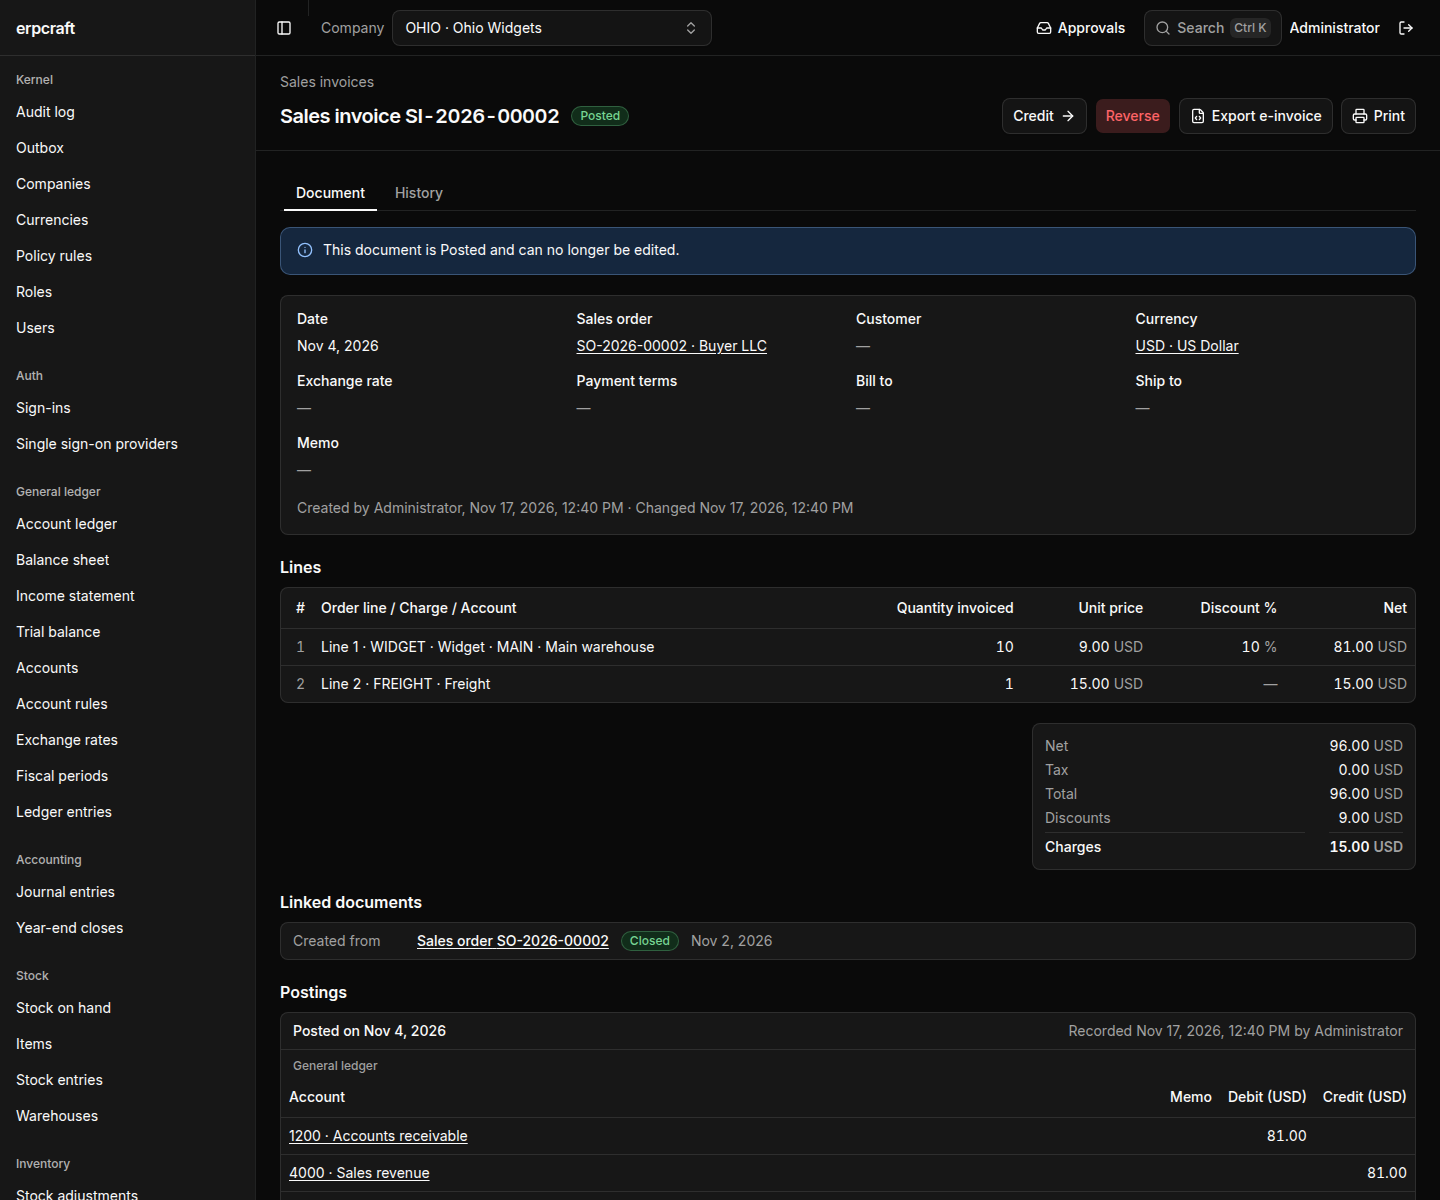
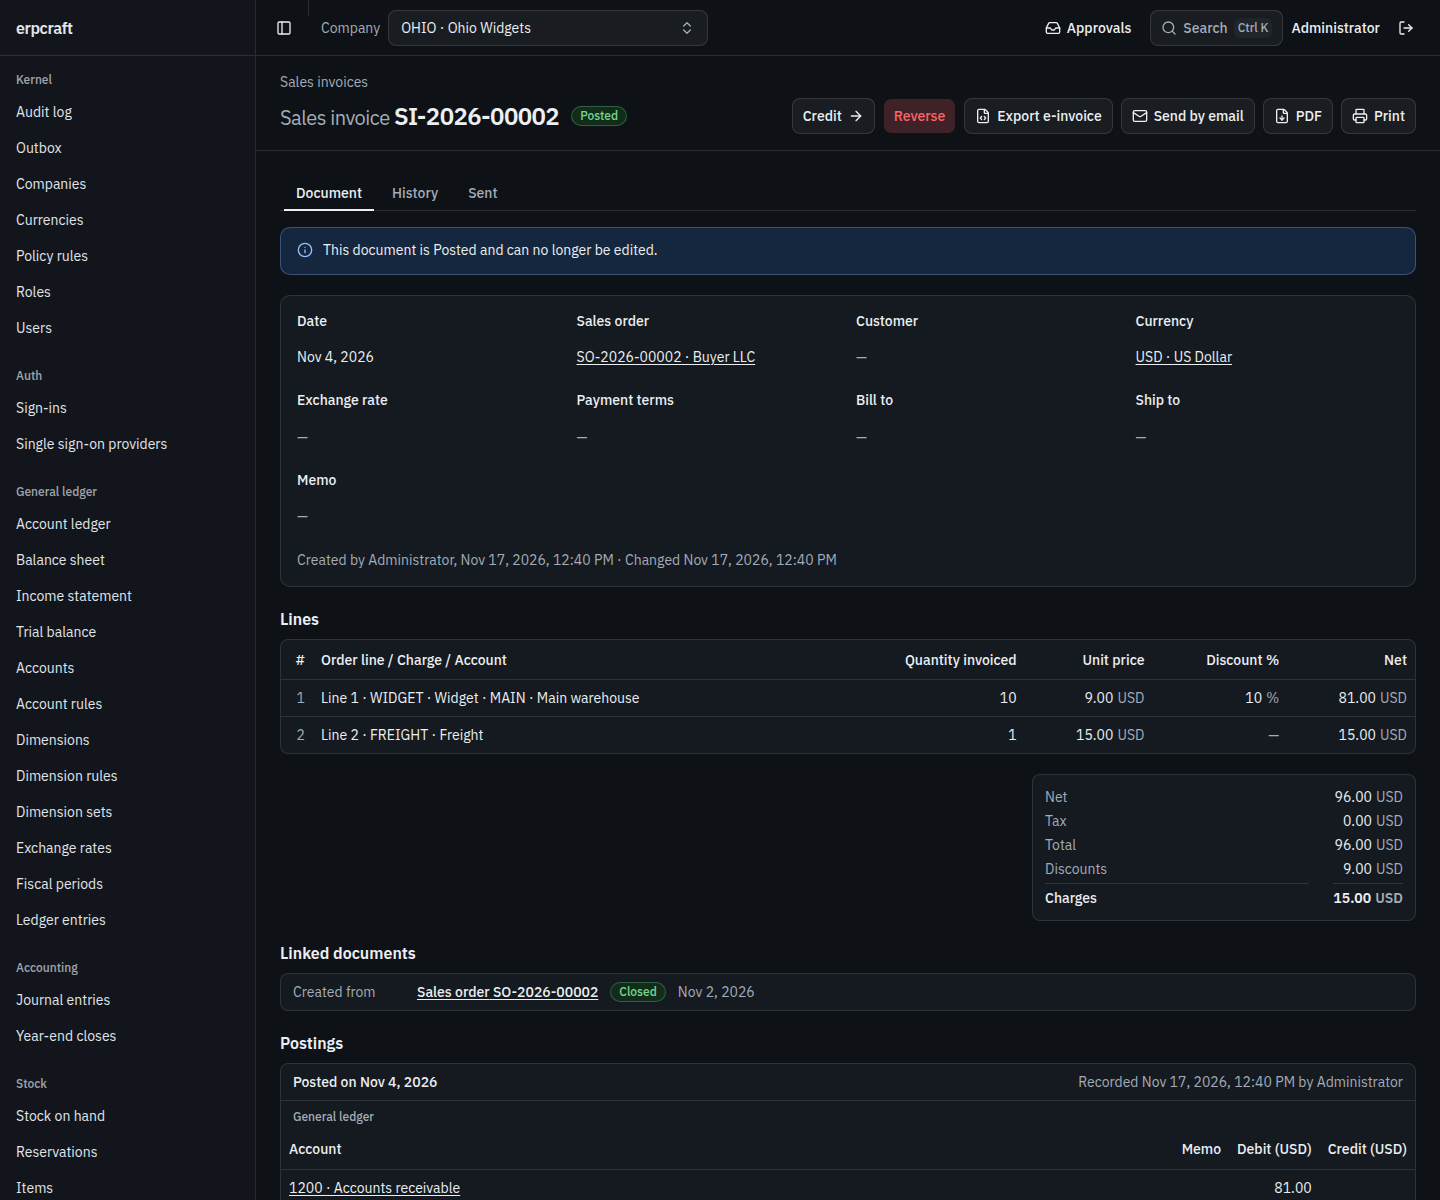
Admin UI: frontend-design polish (theme.css, IBM Plex Sans)
Self-hosted IBM Plex Sans and a ledger-ink palette as token overrides in
one file (ui/src/theme.css; remove its import to roll back), a larger
document number in tabular figures, sentence-case preview label, and a
muted header band on list tables. Before/after screenshots in
ui/docs/screenshots/polish-*.

diff --git a/ui/src/theme.css b/ui/src/theme.css
@@ -1,0 +1,76 @@
+/*
+ * erpcraft's theme over shadcn/ui's neutral one (in index.css).
+ *
+ * The subject is the books and stock of a small manufacturer, read and entered all day by the
+ * people who keep them. So: the blue-black of ledger ink on white paper, one ink blue for what is
+ * to be done (the primary button, the focus ring, the current screen), cool grey rules, and IBM
+ * Plex Sans, an engineer's typeface whose figures line up in columns. Everything else is shadcn's.
+ *
+ * To return to shadcn's neutral look, remove the `@import "./theme.css"` line in index.css:
+ * every value here only overrides a token defined there. The selector is `html:root` so that it
+ * wins over index.css's `:root`, whatever the order the two files end up in.
+ */
+@import "@fontsource-variable/ibm-plex-sans";
+
+html:root {
+  --font-ui: "IBM Plex Sans Variable", ui-sans-serif, system-ui, sans-serif;
+
+  --background: oklch(1 0 0);
+  /* Ledger ink: blue-black, not grey-black. */
+  --foreground: oklch(0.27 0.03 255);
+  --card: oklch(1 0 0);
+  --card-foreground: oklch(0.27 0.03 255);
+  --popover: oklch(1 0 0);
+  --popover-foreground: oklch(0.27 0.03 255);
+  /* Ink blue: what is to be done. */
+  --primary: oklch(0.43 0.1 252);
+  --primary-foreground: oklch(0.985 0.005 255);
+  --secondary: oklch(0.965 0.008 255);
+  --secondary-foreground: oklch(0.3 0.03 255);
+  --muted: oklch(0.967 0.007 255);
+  /* 6:1 on white, 5.5:1 on muted: secondary text that stays readable. */
+  --muted-foreground: oklch(0.5 0.025 255);
+  --accent: oklch(0.955 0.015 252);
+  --accent-foreground: oklch(0.3 0.06 252);
+  --border: oklch(0.9 0.01 255);
+  --input: oklch(0.87 0.012 255);
+  --ring: oklch(0.55 0.12 252);
+  --sidebar: oklch(0.975 0.006 255);
+  --sidebar-foreground: oklch(0.3 0.03 255);
+  --sidebar-primary: oklch(0.43 0.1 252);
+  --sidebar-primary-foreground: oklch(0.985 0.005 255);
+  --sidebar-accent: oklch(0.93 0.025 252);
+  --sidebar-accent-foreground: oklch(0.3 0.08 252);
+  --sidebar-border: oklch(0.9 0.01 255);
+  --sidebar-ring: oklch(0.55 0.12 252);
+}
+
+@media (prefers-color-scheme: dark) {
+  html:root {
+    --background: oklch(0.18 0.012 255);
+    --foreground: oklch(0.95 0.006 255);
+    --card: oklch(0.215 0.014 255);
+    --card-foreground: oklch(0.95 0.006 255);
+    --popover: oklch(0.23 0.015 255);
+    --popover-foreground: oklch(0.95 0.006 255);
+    --primary: oklch(0.76 0.1 252);
+    --primary-foreground: oklch(0.2 0.03 255);
+    --secondary: oklch(0.27 0.015 255);
+    --secondary-foreground: oklch(0.95 0.006 255);
+    --muted: oklch(0.26 0.014 255);
+    --muted-foreground: oklch(0.74 0.02 255);
+    --accent: oklch(0.29 0.03 252);
+    --accent-foreground: oklch(0.95 0.01 252);
+    --border: oklch(1 0 0 / 11%);
+    --input: oklch(1 0 0 / 16%);
+    --ring: oklch(0.7 0.1 252);
+    --sidebar: oklch(0.2 0.013 255);
+    --sidebar-foreground: oklch(0.92 0.008 255);
+    --sidebar-primary: oklch(0.76 0.1 252);
+    --sidebar-primary-foreground: oklch(0.2 0.03 255);
+    --sidebar-accent: oklch(0.29 0.03 252);
+    --sidebar-accent-foreground: oklch(0.95 0.01 252);
+    --sidebar-border: oklch(1 0 0 / 10%);
+    --sidebar-ring: oklch(0.7 0.1 252);
+  }
+}

diff --git a/ui/src/pages/document-page.tsx b/ui/src/pages/document-page.tsx
@@ -869,8 +869,14 @@ function DocumentForm({ docType, id }: { docType: DocTypeMeta; id: string | null
             t("record.new", { label: docType.label })
           ) : (
             <>
-              {docType.label}{" "}
-              <span className={cn("tabular-nums", !number && "font-normal text-muted-foreground")}>
+              {/* The document's number is what people look for and say aloud: it carries the header. */}
+              <span className="font-normal text-muted-foreground">{docType.label}</span>{" "}
+              <span
+                className={cn(
+                  "tabular-nums tracking-tight",
+                  number ? "text-2xl font-semibold" : "font-normal text-muted-foreground",
+                )}
+              >
                 {number ?? t("document.unnumbered")}
               </span>
             </>

diff --git a/ui/src/index.css b/ui/src/index.css
@@ -2,6 +2,8 @@
 @import "tw-animate-css";
 @import "shadcn/tailwind.css";
 @import "@fontsource-variable/inter";
+/* erpcraft's colours and typeface over shadcn's neutral theme. Remove this line to go back to it. */
+@import "./theme.css";
 
 /* Classes are only in the app's source: editing a script or retaking a screenshot reloads nothing. */
 @source not "../scripts";
@@ -115,7 +117,7 @@
 }
 
 @theme inline {
-  --font-sans: "Inter Variable", ui-sans-serif, system-ui, sans-serif;
+  --font-sans: var(--font-ui, "Inter Variable", ui-sans-serif, system-ui, sans-serif);
   --font-mono: ui-monospace, SFMono-Regular, Menlo, Consolas, "Liberation Mono", monospace;
   --font-heading: var(--font-sans);
 

diff --git a/ui/src/components/command-action.tsx b/ui/src/components/command-action.tsx
@@ -359,7 +359,7 @@ export function ActionDialog({
           </div>
         ) : null}
         <section aria-live="polite" className="space-y-2">
-          <h3 className="text-xs font-medium uppercase tracking-wide text-muted-foreground">{t("preview.heading")}</h3>
+          <h3 className="text-sm font-semibold">{t("preview.heading")}</h3>
           {requested ? (
             <ApprovalNotice approval={requested} preview={false} />
           ) : preview.error ? (

diff --git a/ui/src/components/data-table.tsx b/ui/src/components/data-table.tsx
@@ -109,8 +109,8 @@ export function DataTable<Row>({
         </div>
       ) : null}
       <Table aria-label={caption} aria-busy={loading || undefined}>
-        <TableHeader>
-          <TableRow>
+        <TableHeader className="bg-muted/50">
+          <TableRow className="hover:bg-transparent">
             {selection ? (
               <TableHead className="w-10 px-3">
                 <span className="sr-only">{t("list.select")}</span>

diff --git a/ui/README.md b/ui/README.md
@@ -81,7 +81,9 @@ src/components/        The shared components that carry the rules, built from sr
                        Postings (ledger entries), DecimalValue, references.
 src/hooks/, src/lib/utils.ts  Written by the shadcn CLI.
 src/pages/             One generic page per kind of screen, and the reports with a page of their own.
-src/index.css          shadcn's neutral theme (light and dark) plus status tones. The only file with raw colors and sizes.
+src/index.css          shadcn's neutral theme (light and dark) plus status tones.
+src/theme.css          erpcraft's colours and typeface (IBM Plex Sans, self-hosted) over it; remove its import in
+                       index.css to go back to shadcn's neutral look. These two are the only files with raw colors.
 scripts/               generate-api-types.ts, seed.ts, screenshots.ts, e2e.ts, check-dist.ts, browser.ts.
 ```
 
